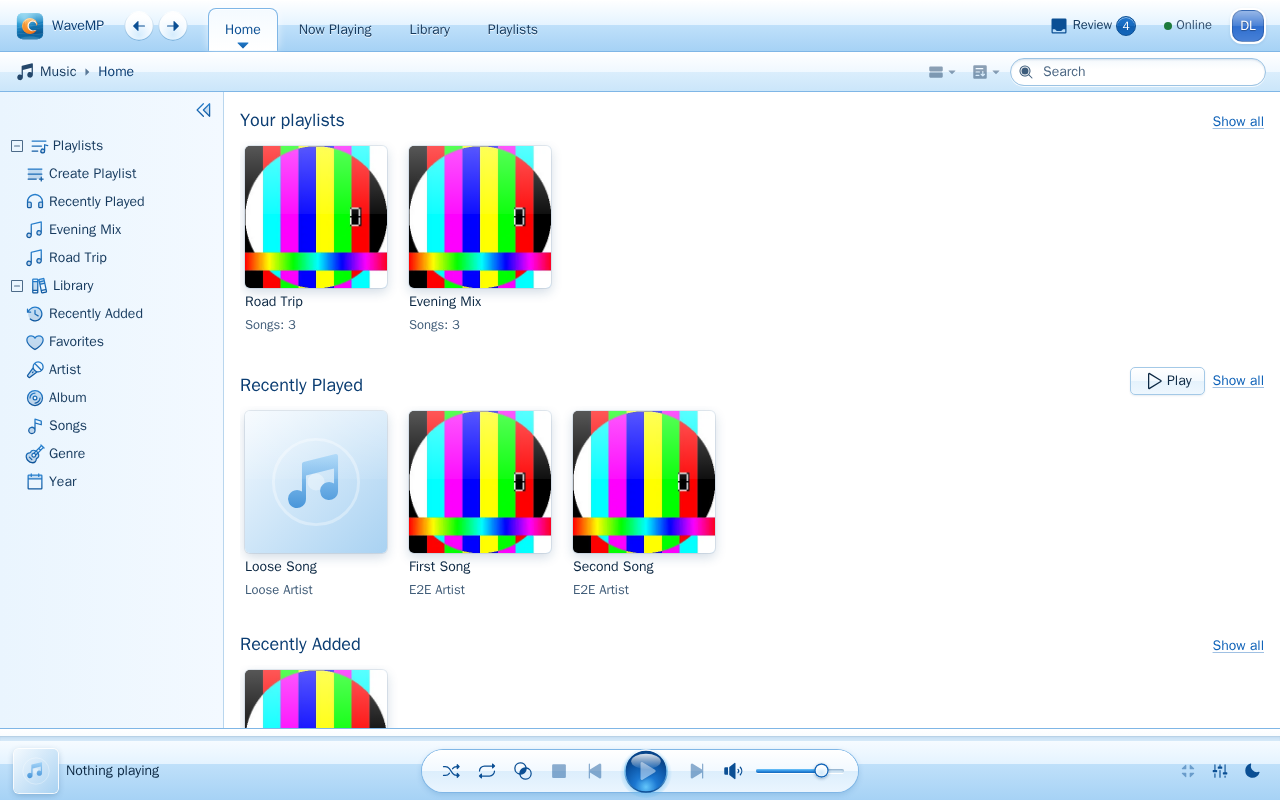
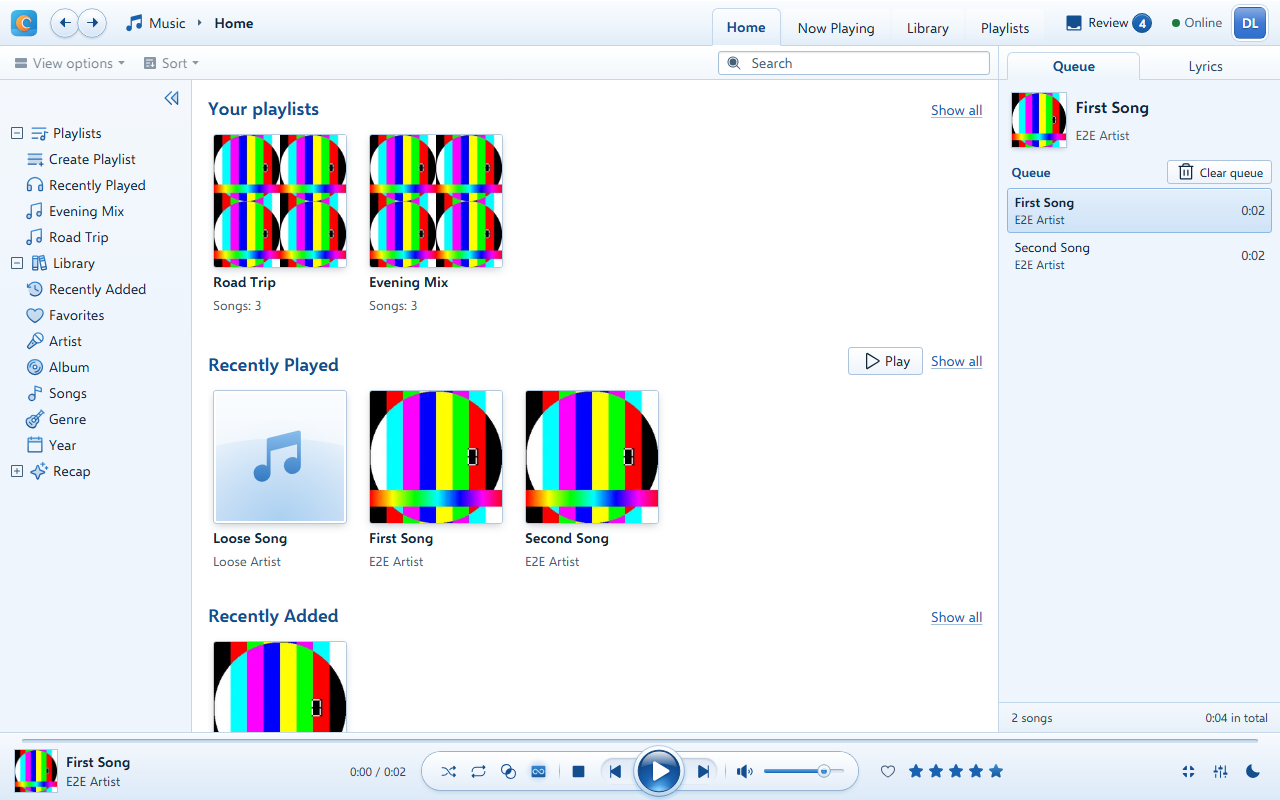
WMP-127: M8 take the baselines and screenshots of daylight
The screenshot baselines of Daylight are taken again in the Playwright image of the CI, for the
desktop views with the breadcrumb bar, the docked queue and the album groups and for the phone
views in the new colors; no baseline of another theme changes, and the comparison of all themes
is green. The screenshot of Daylight in assets/screenshots/themes is taken again with
theme:screenshots. THEMING.md shows how to take the baselines of a single theme again.

Closes #93

Claude-Session: https://claude.ai/code/session_011yGJ1Ft1etjjoS6miNr7QW

diff --git a/THEMING.md b/THEMING.md
@@ -1448,7 +1448,10 @@ Exempt like in WCAG are disabled controls and the logo, and also the initials of
 cd tests/WaveMP.E2E
 npm run test:themes             # compare in the Playwright image of the CI
 npm run test:themes:update      # take the baselines again
+npm run test:themes:update -- --grep daylight   # only for the changed theme
 ```
+
+Take the baselines again only for the theme you changed and compare all of them afterwards: a change in the baselines of another theme means the change reaches further than intended.
 
 ## Uploaded themes
 
